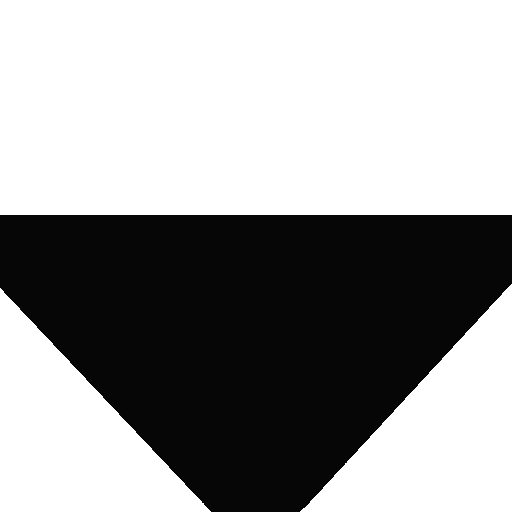
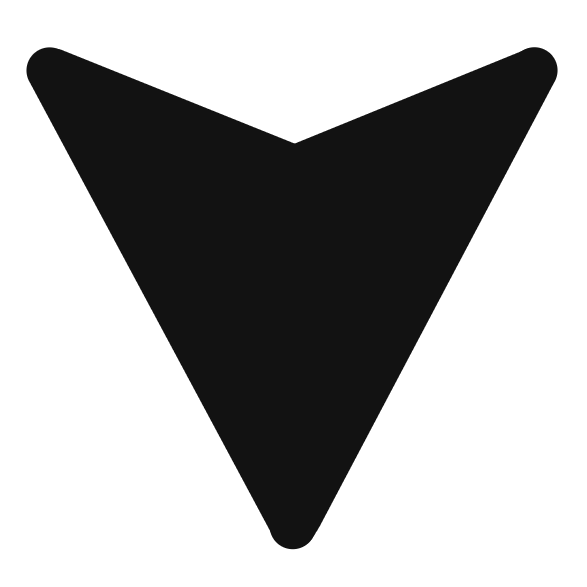
splash screen, placeholder pathing, some cleaning

diff --git a/lib/pages/markers.dart b/lib/pages/markers.dart
@@ -30,6 +30,52 @@ class _MarkersPageState extends State<MarkersPage> {
     });
   }
 
+  void _loadPlaceholderMarkers() async {
+    _locationService.deleteAllMarkers();
+
+    final markerData = [
+      {'position': const LatLng(2.98868537940847, 101.797900666648), 'name': 'Point1'},
+      {'position': const LatLng(2.989244413402585, 101.798532386788), 'name': 'Point2'},
+      {'position': const LatLng(2.990033366473916, 101.7992203640038), 'name': 'Point3'},
+      {'position': const LatLng(2.990693376988884, 101.7998528986079), 'name': 'Point4'},
+      {'position': const LatLng(2.991000600300543, 101.7994319101828), 'name': 'Point5'},
+      {'position': const LatLng(2.991183359339283, 101.7991375626299), 'name': 'Point6'},
+      {'position': const LatLng(2.991274168478034, 101.7990393874386), 'name': 'Point7'},
+      {'position': const LatLng(2.991459196578864, 101.7990096733906), 'name': 'Point8'},
+      {'position': const LatLng(2.991595308080111, 101.7993332308529), 'name': 'Point9'},
+      {'position': const LatLng(2.991796846335147, 101.7999538794936), 'name': 'Point10'},
+      {'position': const LatLng(2.992068945072041, 101.8006967136011), 'name': 'Point11'},
+      {'position': const LatLng(2.992232580409363, 101.8013141468541), 'name': 'Point12'},
+      {'position': const LatLng(2.992287199282622, 101.8019154540598), 'name': 'Point13'},
+      {'position': const LatLng(2.992245838393786, 101.8023254031128), 'name': 'Point14'},
+      {'position': const LatLng(2.992120704542342, 101.8028650186327), 'name': 'Point15'},
+      {'position': const LatLng(2.992102013457163, 101.8028982936435), 'name': 'Point16'},
+      {'position': const LatLng(2.992633673121985, 101.8031629498947), 'name': 'Point17'},
+      {'position': const LatLng(2.992763972446477, 101.8031904578254), 'name': 'Point18'},
+      {'position': const LatLng(2.99464656257988, 101.8027092595519), 'name': 'Point19'},
+      {'position': const LatLng(2.994751238107307, 101.8030916538442), 'name': 'Point20'},
+      {'position': const LatLng(2.994972827645898, 101.8029886791101), 'name': 'Point21'},
+      {'position': const LatLng(2.995632011314621, 101.8029304572101), 'name': 'Point22'},
+      {'position': const LatLng(2.996467781200925, 101.8028909097834), 'name': 'Point23'},
+      {'position': const LatLng(2.997295857294304, 101.8027997294445), 'name': 'Point24'},
+      {'position': const LatLng(2.997095632111799, 101.8017599383495), 'name': 'Point25'},
+      {'position': const LatLng(2.996881125760533, 101.8008371099352), 'name': 'Point26'},
+      {'position': const LatLng(2.996904451522328, 101.8005968320921), 'name': 'Point27'},
+      {'position': const LatLng(2.996992184098294, 101.8004923529445), 'name': 'Point28'},
+      {'position': const LatLng(2.997088815271175, 101.799618825858), 'name': 'Point29'},
+      {'position': const LatLng(2.997184074399046, 101.7995369555329), 'name': 'Point30'},
+      {'position': const LatLng(2.997858984062179, 101.799581144598), 'name': 'Point31'},
+      {'position': const LatLng(2.99793504362245, 101.7987814808774), 'name': 'Point32'},
+    ];
+
+    // add markers with a loop
+    for (var marker in markerData) {
+      _locationService.addMarker(marker['position'] as LatLng, marker['name'] as String); // type cast
+    }
+
+    setState(() {}); // refresh UI
+  }
+
   // UI
   @override
   Widget build(BuildContext context) {
@@ -54,20 +100,27 @@ class _MarkersPageState extends State<MarkersPage> {
                   icon: const Icon(Icons.library_add_rounded),
                   onPressed: () {
                     // call waypoint excel import
+                    _loadPlaceholderMarkers();
+
+                    ScaffoldMessenger.of(context).showSnackBar(const SnackBar(content: Text('Loaded Test Markers')));
                   },
                 ),
-                IconButton(
-                  icon: const Icon(Icons.download_rounded),
-                  onPressed: () {
-                    // implement download markers excel here
-                    // _downloadExcelFile();
-                  },
-                ),
+                // IconButton(
+                //   icon: const Icon(Icons.download_rounded),
+                //   onPressed: () {
+                //     // implement download markers excel here
+                //     // _downloadExcelFile();
+                //   },
+                // ),
                 IconButton(
                   icon: const Icon(Icons.delete),
                   onPressed: () {
                     // implement confirmation screen
                     // implement clear screen here
+                    _locationService.deleteAllMarkers();
+                    setState(() {}); // refresh UI
+
+                    ScaffoldMessenger.of(context).showSnackBar(const SnackBar(content: Text('Deleted Markers')));
                   },
                 )
               ],
@@ -151,7 +204,7 @@ class _MarkersPageState extends State<MarkersPage> {
                 minimumSize: const Size(140, 40),
               ),
               onPressed: () {
-                final name = _nameController.text;
+                final name = _nameController.text.trim().replaceAll(' ', '_'); // remove spaces
                 final lat = double.tryParse(_latController.text);
                 final long = double.tryParse(_longController.text);
 

diff --git a/lib/other/location_service.dart b/lib/other/location_service.dart
@@ -1,6 +1,5 @@
 import 'dart:convert';
 
-import 'package:flutter/material.dart';
 import 'package:geolocator/geolocator.dart';
 import 'package:google_maps_flutter/google_maps_flutter.dart';
 
@@ -57,9 +56,9 @@ class LocationService {
     // create a polyline said points
     final Polyline polyline = Polyline(
       polylineId: polylineId,
-      color: Colors.red, // set polyline color here
+      color: const ui.Color.fromARGB(255, 209, 39, 26), // set polyline color here
       points: points,
-      width: 4,
+      width: 6,
     );
 
     // update the polyLines map
@@ -76,7 +75,7 @@ class LocationService {
 
   // load custom marker icon
   Future<void> _loadCustomMarkerIcon() async {
-    final Uint8List markerIcon = await getBytesFromAsset('lib/assets/waypoint2.png', 56); // set custom waypoint icon size here
+    final Uint8List markerIcon = await getBytesFromAsset('lib/assets/waypoint.png', 54); // set custom waypoint icon size here
     // ignore: deprecated_member_use
     _customWaypointMarker = BitmapDescriptor.fromBytes(markerIcon);
   }
@@ -190,7 +189,7 @@ class LocationService {
   void addMarker(LatLng position, String name) async {
     // check for duplicate marker names and modify the name if needed
     String newName = name;
-    int count = 1;
+    int count = 1; // define filename postfix
     while (markers.any((marker) => marker.markerId.value == newName)) {
       newName = '$name' '_' '$count';
       count++;
@@ -206,6 +205,7 @@ class LocationService {
           snippet: 'Lat: ${position.latitude}, Long: ${position.longitude}',
         ),
         icon: icon,
+        anchor: const Offset(0.5, 0.8), // center the icon
       ),
     );
 
@@ -216,6 +216,13 @@ class LocationService {
   // delete map marker
   void deleteMarker(Marker marker) {
     markers.remove(marker);
+    _saveMarkersToFile();
+    updatePolylines();
+  }
+
+  // clear all markers
+  void deleteAllMarkers() {
+    markers.clear();
     _saveMarkersToFile();
     updatePolylines();
   }

diff --git a/lib/pages/splash_screen.dart b/lib/pages/splash_screen.dart
@@ -1,0 +1,38 @@
+import 'dart:async';
+
+import 'package:flutter/material.dart';
+import 'package:geolocator_test/home.dart';
+
+class SplashPage extends StatefulWidget {
+  const SplashPage({super.key});
+
+  @override
+  State<SplashPage> createState() => _SplashPageState();
+}
+
+class _SplashPageState extends State<SplashPage> {
+  @override
+  void initState() {
+    super.initState();
+
+    // navigate to map after 5 seconds
+    Timer(const Duration(seconds: 3), () {
+      Navigator.of(context).pushReplacement(
+        MaterialPageRoute(builder: (_) => PageManager()),
+      );
+    });
+  }
+
+  @override
+  Widget build(BuildContext context) {
+    return Scaffold(
+      body: Center(
+        child: Image.asset(
+          'lib/assets/progrid_black.png',
+          width: 350,
+        ),
+      ),
+      backgroundColor: Colors.white,
+    );
+  }
+}

diff --git a/lib/main.dart b/lib/main.dart
@@ -1,5 +1,6 @@
 import 'package:flutter/material.dart';
-import 'package:geolocator_test/home.dart';
+// import 'package:geolocator_test/home.dart';
+import 'package:geolocator_test/pages/splash_screen.dart';
 
 void main() {
   runApp(const MainApp());
@@ -18,7 +19,7 @@ class MainApp extends StatelessWidget {
             primary: Colors.blueGrey,
             secondary: Colors.teal,
           )),
-      home: const PageManager(),
+      home: const SplashPage(),
     );
   }
 }
